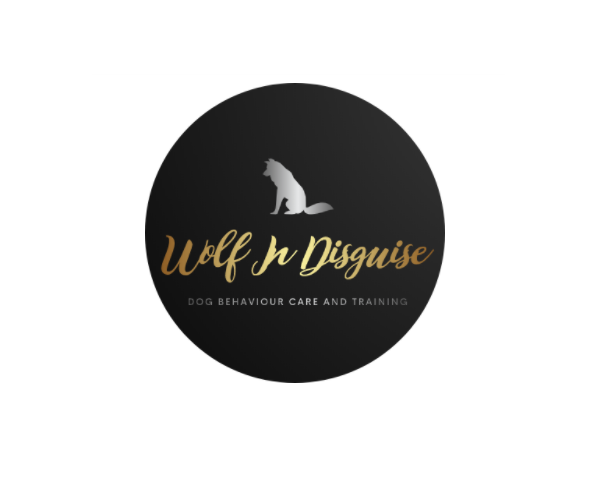
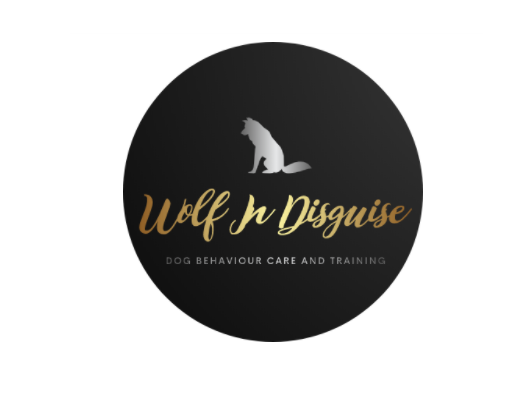
Amended positioning of images in work tab

Changed region(s): [[0.2121, 0.09, 0.8182, 0.87], [0.2424, 0.3, 0.2727, 0.39]]

diff --git a/work.html b/work.html
@@ -46,13 +46,13 @@
               >
             </li>
             <li class="nav-item">
-              <a class="nav-link" href="about.html">About me</a>
+              <a class="nav-link" href="about.html" title="About Karolina">About me</a>
             </li>
             <li class="nav-item">
-              <a class="nav-link" href="work.html">My work</a>
+              <a class="nav-link" href="work.html" title="Karolina's work">My work</a>
             </li>
             <li class="nav-item">
-              <a class="nav-link" href="contact.html">Contact me</a>
+              <a class="nav-link" href="contact.html" title="Contact Karolina">Contact me</a>
             </li>
           </ul>
         </div>
@@ -61,8 +61,8 @@
    
 
   <div class="container-sm">
-    <div class="row">
-      <div class="col-6 d-none d-lg-block"> 
+    <div class="row mt-5">
+      <div class="col-6"> 
         <img src="images/wolf.png" class="img-fluid rounded" alt="My dog psychology web design" />
       </div>
       <div class="col-6">
@@ -86,7 +86,7 @@
         </div>
       </div>
       <div class="col-6">
-        <img src="images/weather.png" class="img-fluid rounded" alt="My weather app">
+        <img src="images/weather.png" class="img-fluid rounded" alt="My weather application">
       </div>
     </div>
     <div class="row mt-5">

diff --git a/about.html b/about.html
@@ -44,13 +44,13 @@
               <a class="nav-link" aria-current="page" href="index.html">Home</a>
             </li>
             <li class="nav-item">
-              <a class="nav-link active" href="about.html">About me</a>
+              <a class="nav-link active" href="about.html" title="About Karolina">About me</a>
             </li>
             <li class="nav-item">
-              <a class="nav-link" href="work.html">My work</a>
+              <a class="nav-link" href="work.html" title="Karolina's work">My work</a>
             </li>
             <li class="nav-item">
-              <a class="nav-link" href="contact.html">Contact me</a>
+              <a class="nav-link" href="contact.html" title="Contact Karolina">Contact me</a>
             </li>
           </ul>
         </div>

diff --git a/contact.html b/contact.html
@@ -51,13 +51,13 @@
                 >
               </li>
               <li class="nav-item">
-                <a class="nav-link" href="about.html">About me</a>
+                <a class="nav-link" href="about.html" title="About Karolina">About me</a>
               </li>
               <li class="nav-item">
-                <a class="nav-link" href="work.html">My work</a>
+                <a class="nav-link" href="work.html" title="Karolina's work">My work</a>
               </li>
               <li class="nav-item">
-                <a class="nav-link" href="contact.html">Contact me</a>
+                <a class="nav-link" href="contact.html" title="Contact Karolina">Contact me</a>
               </li>
             </ul>
           </div>
